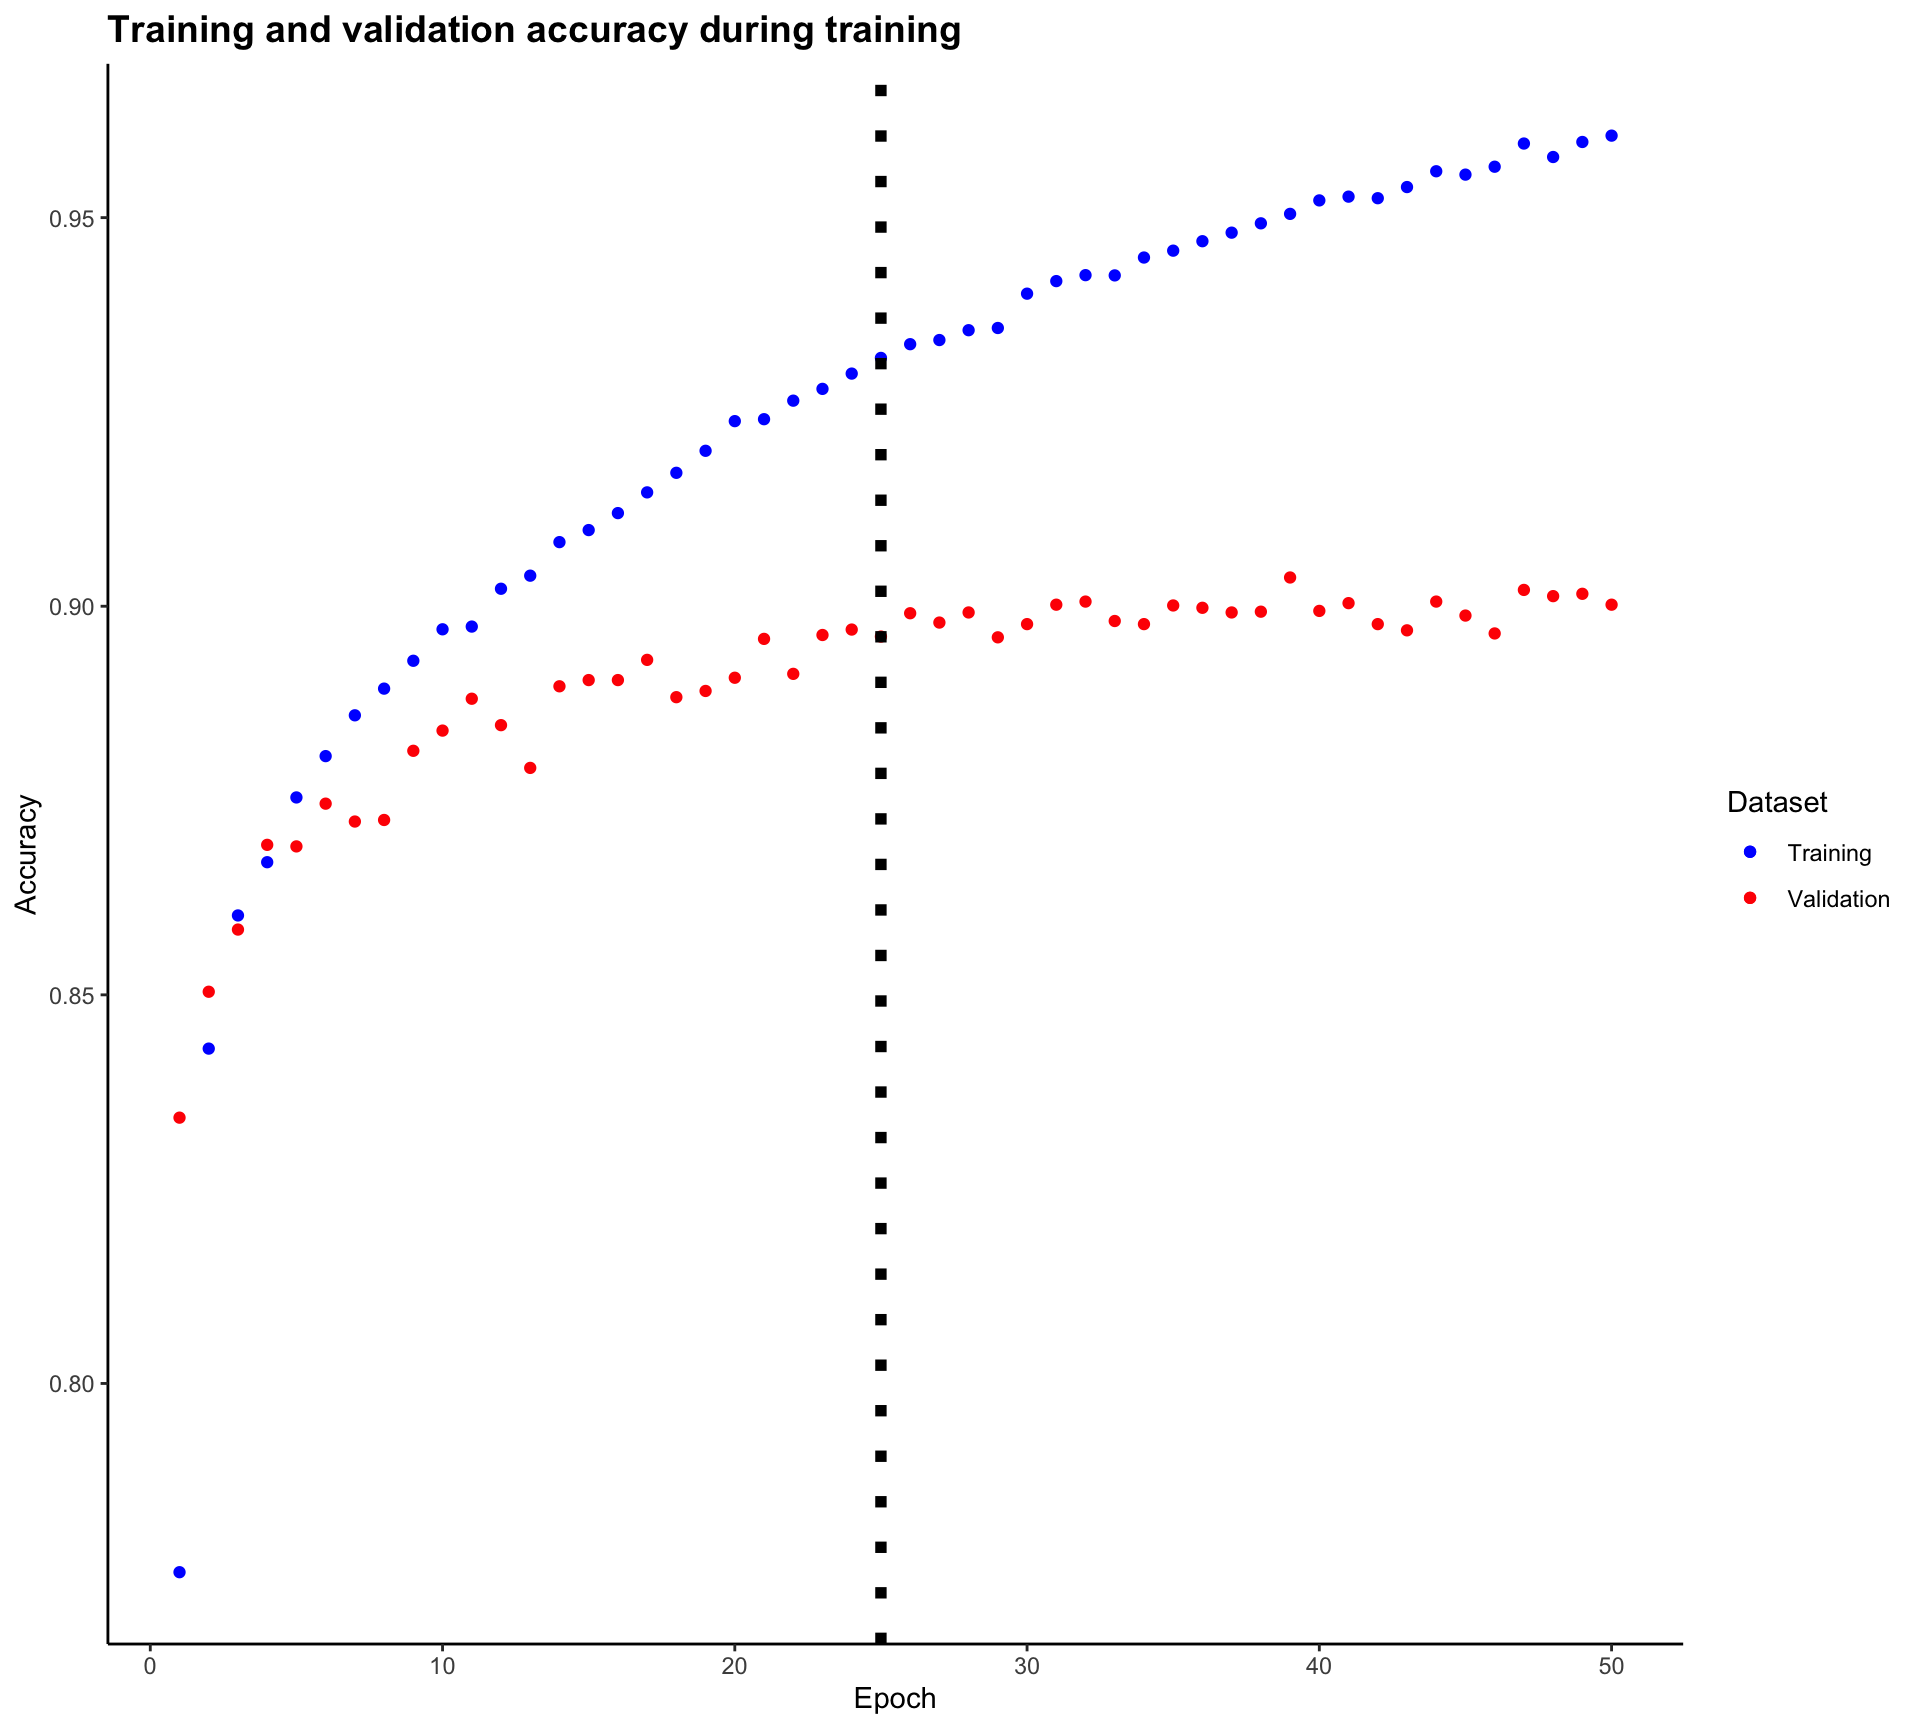
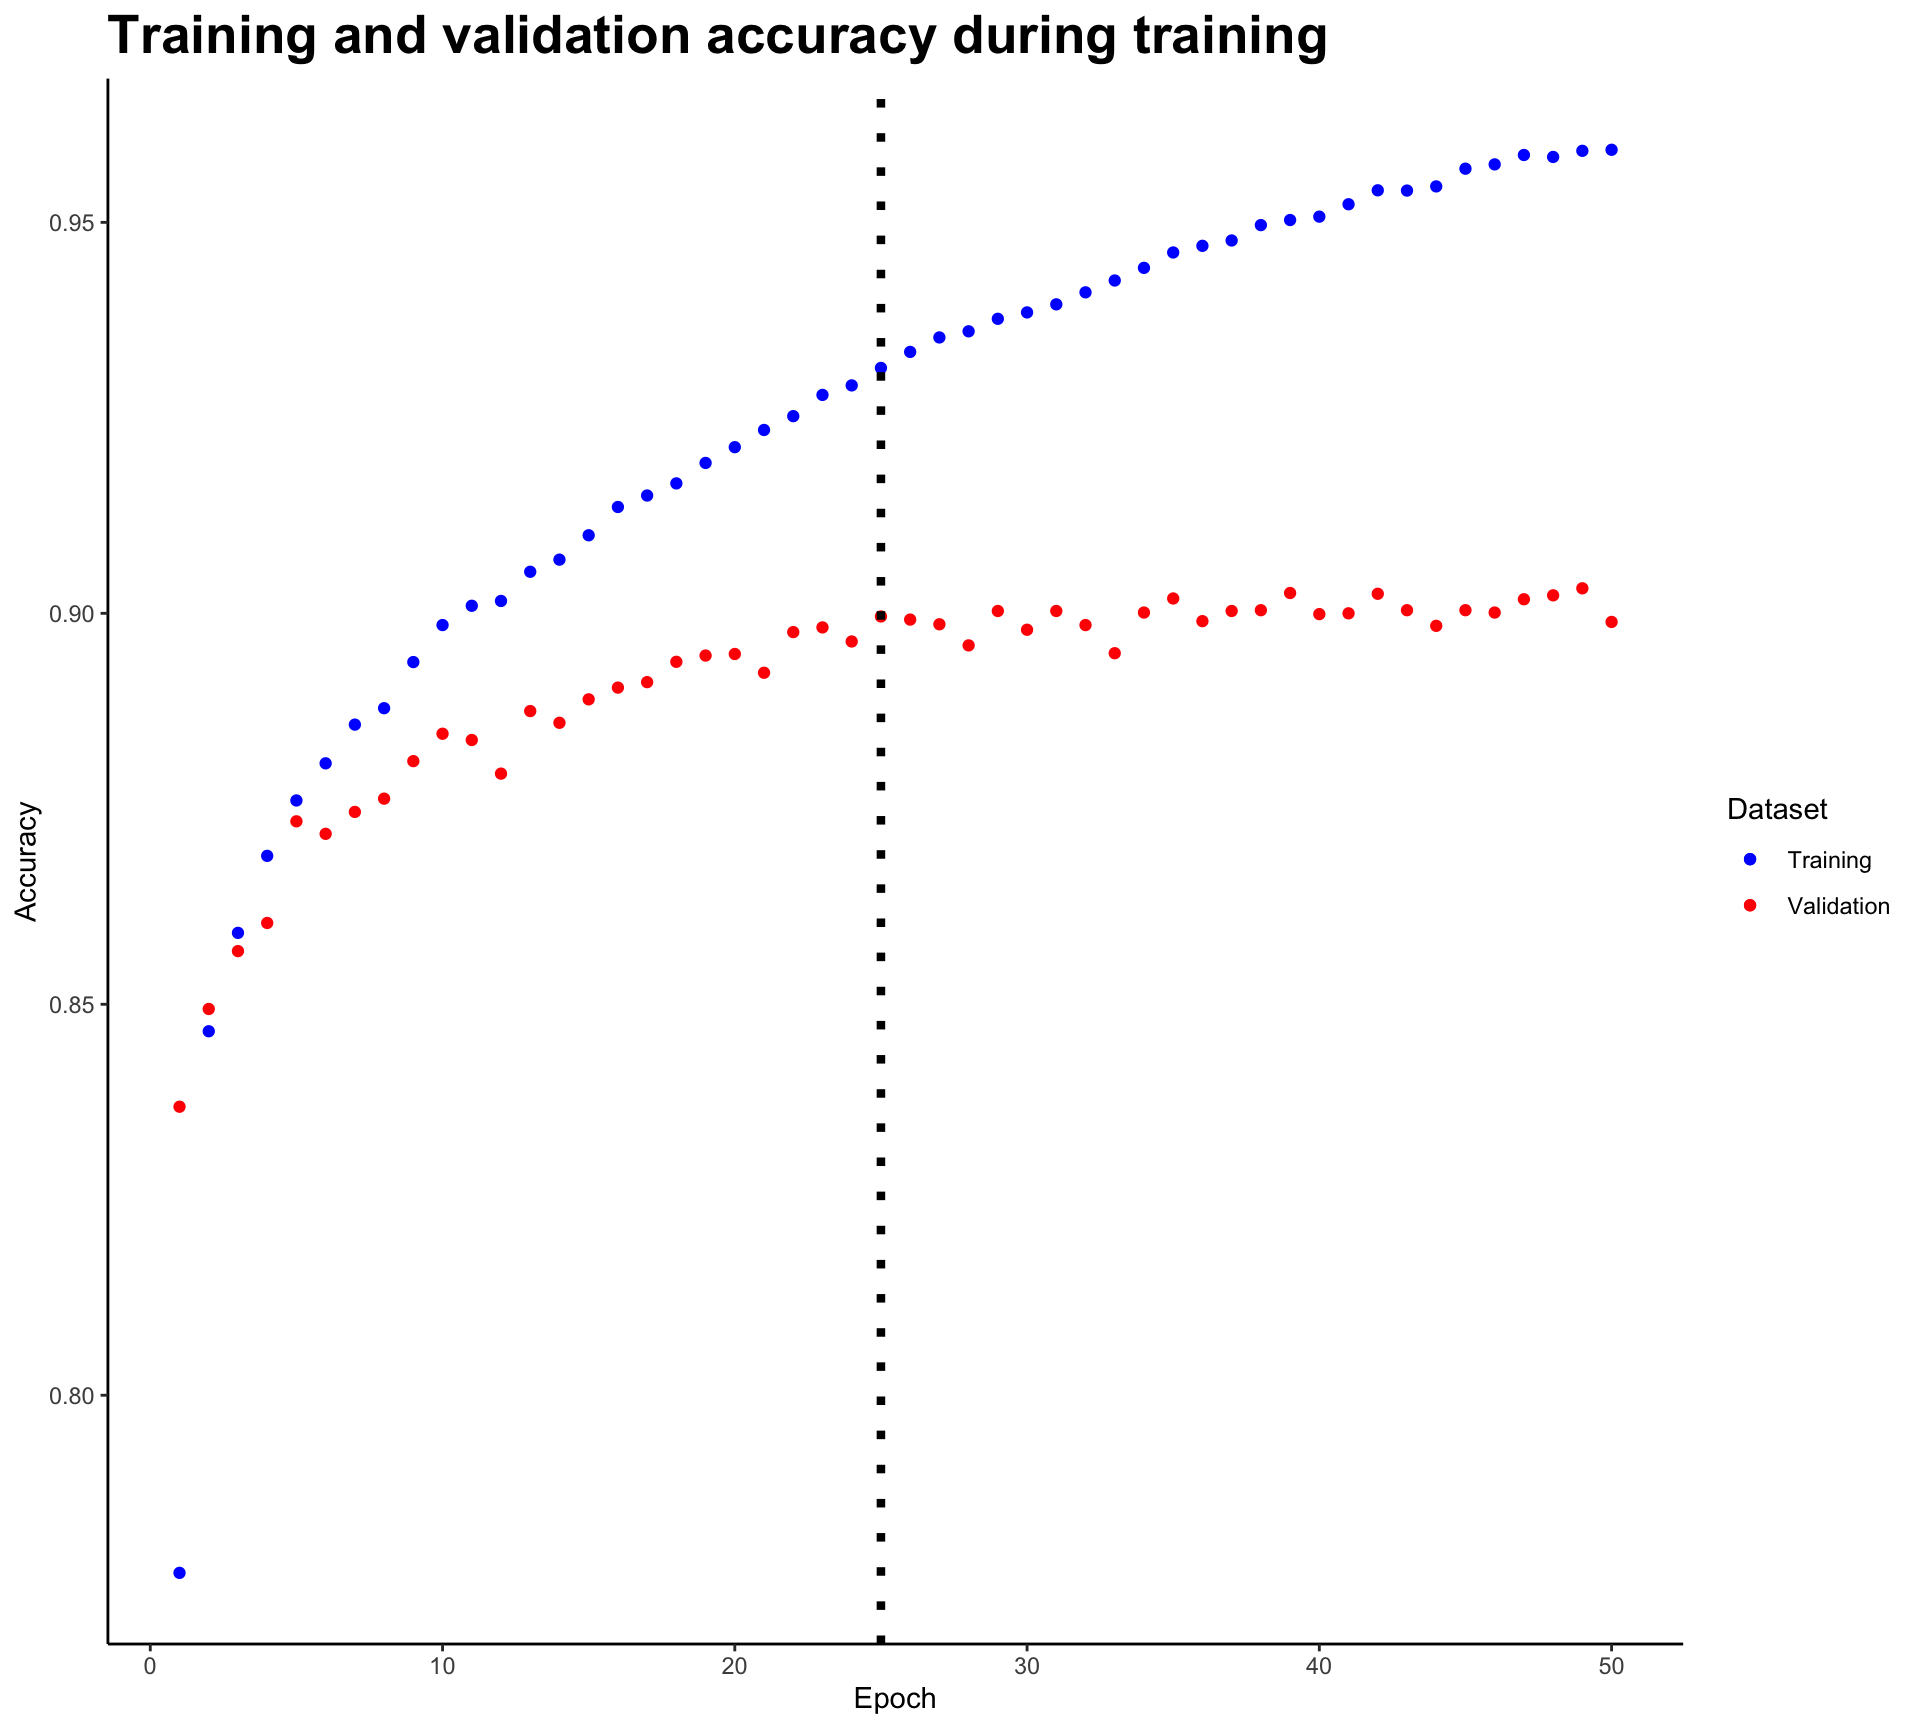
Add site files

diff --git a/project/_site/results.html b/project/_site/results.html
@@ -386,7 +386,7 @@ for(i in 42:66) {
           main=paste(classes[train_labels[i] + 1]))
 }</code></pre>
 <p><img src="results_files/figure-html/unnamed-chunk-7-1.png" width="960" /></p>
-<p>Now, we begin to build our model and establish our layers, which will start by shrinking the first layer into 32 values. After this layer has been evaluated by the sigmoid activation function, it will produce another level of 32 values, which goes through a different activation function (ReLU) before being sent to the final layer of ten values:</p>
+<p>Now, we begin to build our model and establish our layers, which will start by shrinking the first layer into 512 values. After this layer has been evaluated by the sigmoid activation function, it will produce another level of 512 values, which goes through a different activation function (ReLU) before being sent to the final layer of ten values:</p>
 <pre class="r"><code>model &lt;- keras_model_sequential()
 model %&gt;%
     layer_flatten(input_shape=c(28, 28)) %&gt;%
@@ -447,26 +447,27 @@ ggplot(data=acc, aes(1:epochs, train_acc, color=&quot;blue&quot;)) +
   geom_point() + # Starman, this is weird
   geom_point(data=acc, aes(1:epochs, val_acc, color=&quot;red&quot;)) +
   theme_classic() +
-  geom_vline(xintercept=epochs/2, linetype=&quot;dotted&quot;, color=&quot;black&quot;, size=2) +
+  geom_vline(xintercept=epochs/2, linetype=&quot;dotted&quot;, color=&quot;black&quot;, size=1.5) +
   labs(title=&quot;Training and validation accuracy during training&quot;, 
        x=&quot;Epoch&quot;, 
        y=&quot;Accuracy&quot;, 
        color=&quot;Dataset&quot;) +
   scale_color_manual(labels=c(&quot;Training&quot;, &quot;Validation&quot;), values=c(&quot;blue&quot;, &quot;red&quot;)) + 
-  theme(plot.title=element_text(size=14, face=&quot;bold&quot;))</code></pre>
+  theme(plot.title=element_text(size=20, face=&quot;bold&quot;))</code></pre>
 <p><img src="results_files/figure-html/unnamed-chunk-13-1.png" width="960" /></p>
 <pre class="r"><code>ggplot(data=loss, aes(1:epochs, train_loss, color=&quot;blue&quot;)) + 
   geom_point() + # Starman, this is weird
   geom_point(data=loss, aes(1:epochs, val_loss, color=&quot;red&quot;)) +
   theme_classic() +
-  geom_vline(xintercept=epochs/2, linetype=&quot;dotted&quot;, color=&quot;black&quot;, size=2) +
+  geom_vline(xintercept=epochs/2, linetype=&quot;dotted&quot;, color=&quot;black&quot;, size=1.5) +
   labs(title=&quot;Training and validation loss during training&quot;, 
        x=&quot;Epoch&quot;, 
        y=&quot;Loss&quot;, 
        color=&quot;Dataset&quot;) +
   scale_color_manual(labels=c(&quot;Training&quot;, &quot;Validation&quot;), values=c(&quot;blue&quot;, &quot;red&quot;)) + 
-  theme(plot.title=element_text(size=14, face=&quot;bold&quot;))</code></pre>
+  theme(plot.title=element_text(size=20, face=&quot;bold&quot;))</code></pre>
 <p><img src="results_files/figure-html/unnamed-chunk-13-2.png" width="960" /></p>
+<p>The plot of training and validation accuracy showcases how accuracy increases during training. Similarly, the plot of trianing and validation loss showcases how loss suggesting the network is getting better at minimizing the difference between a true answer and a predicted answer. The increase in accuracy and the decrease in loss are both consequence of the network getting better as training progresses. During trials, we found that training for 25 epochs is sufficient - the optimal epoch limit is marked in the plots.</p>
 </div>
 
 
